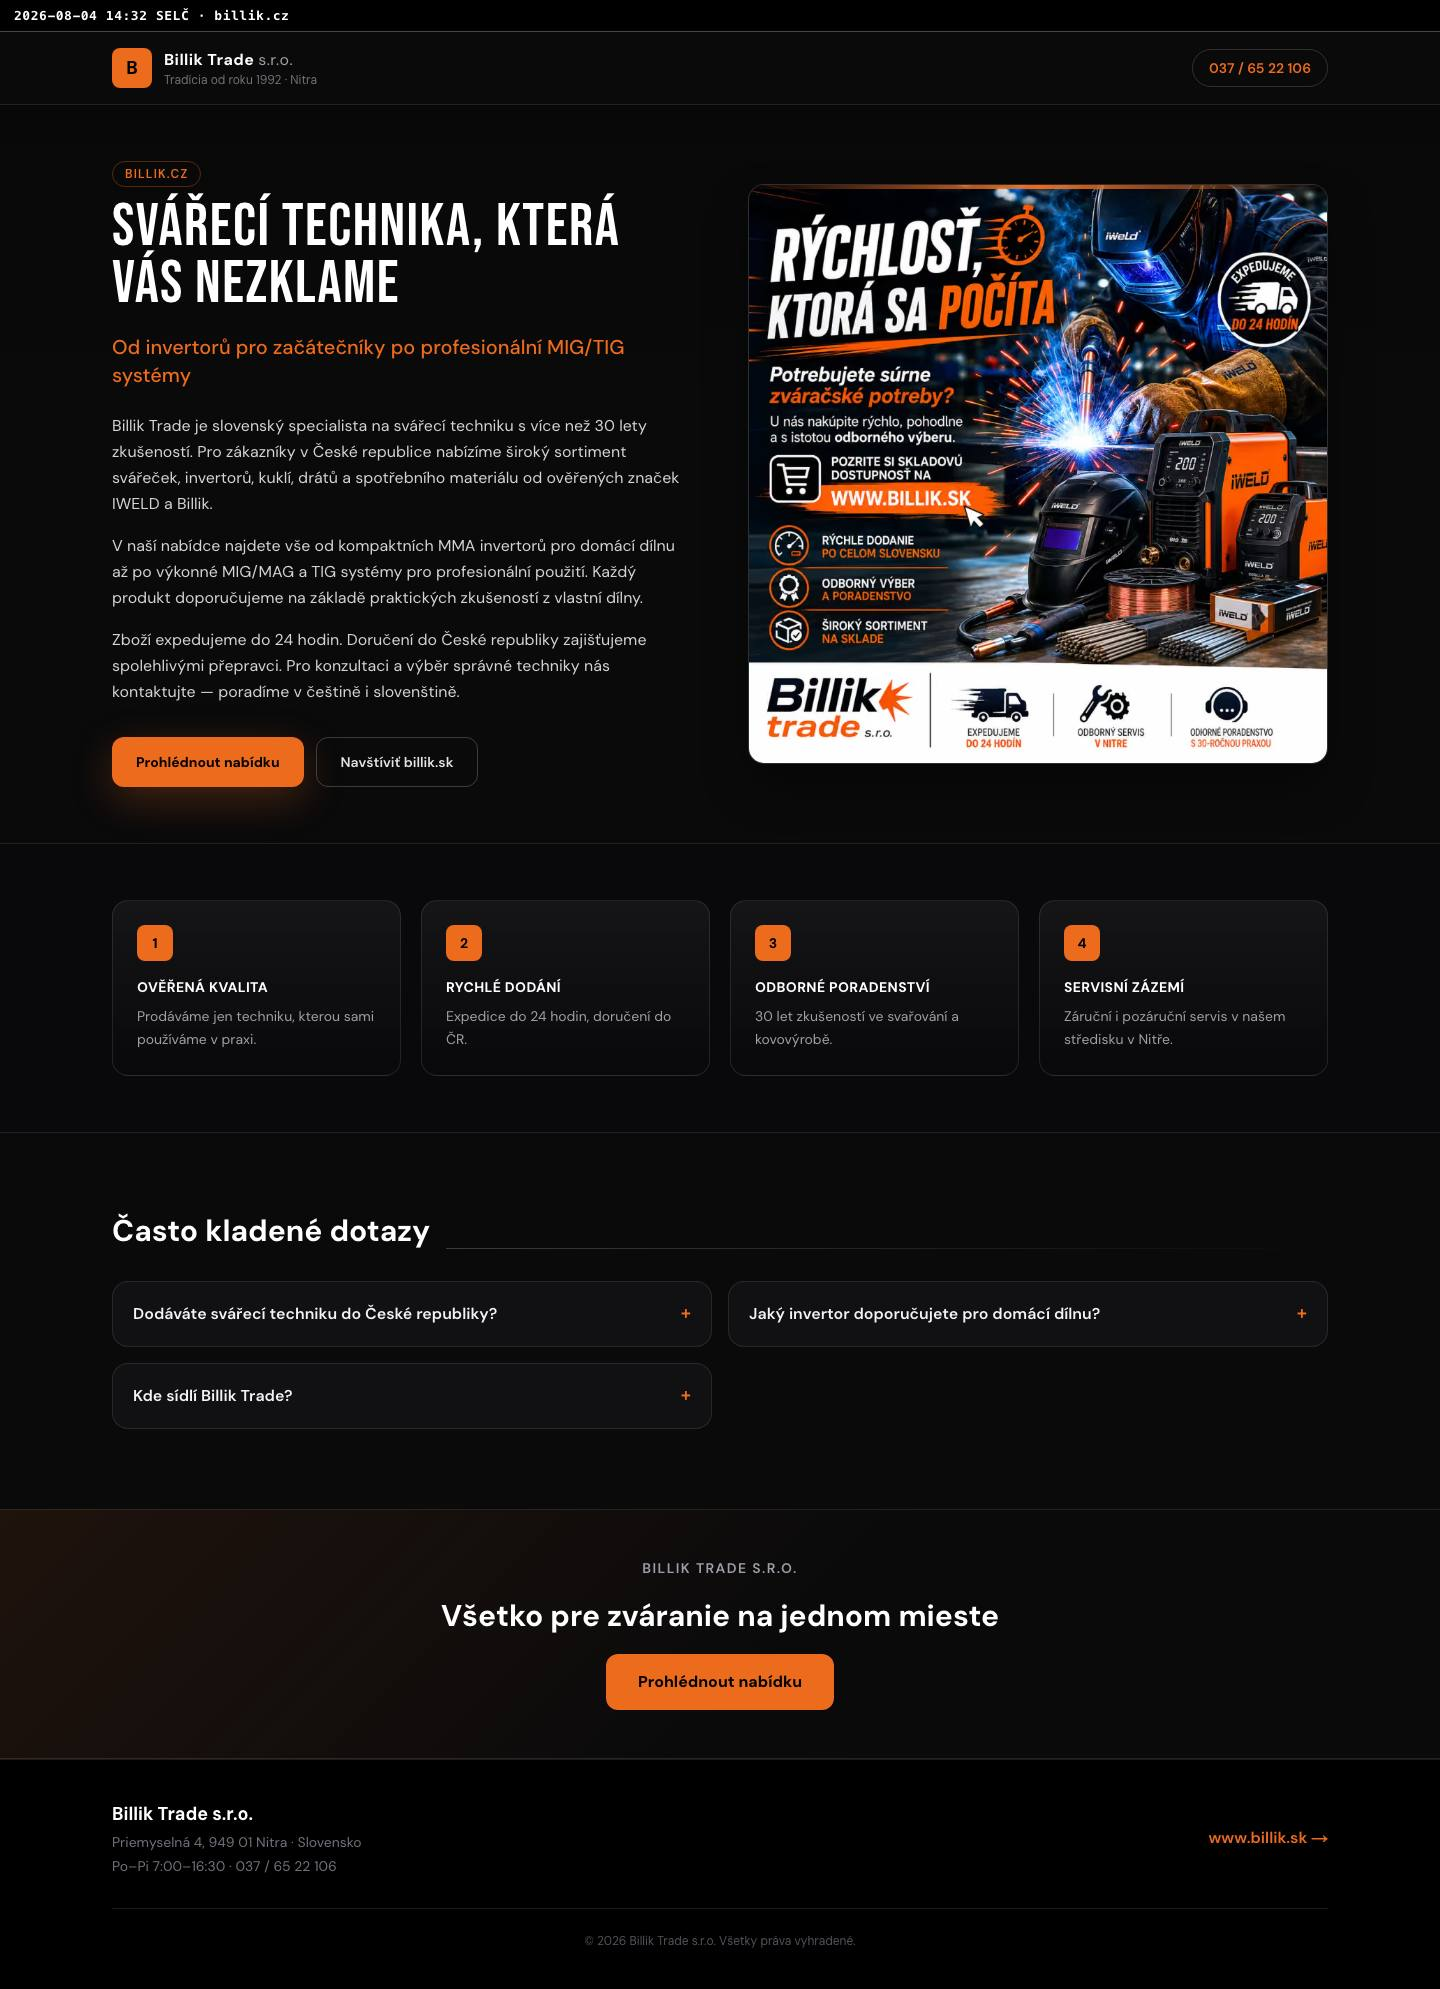
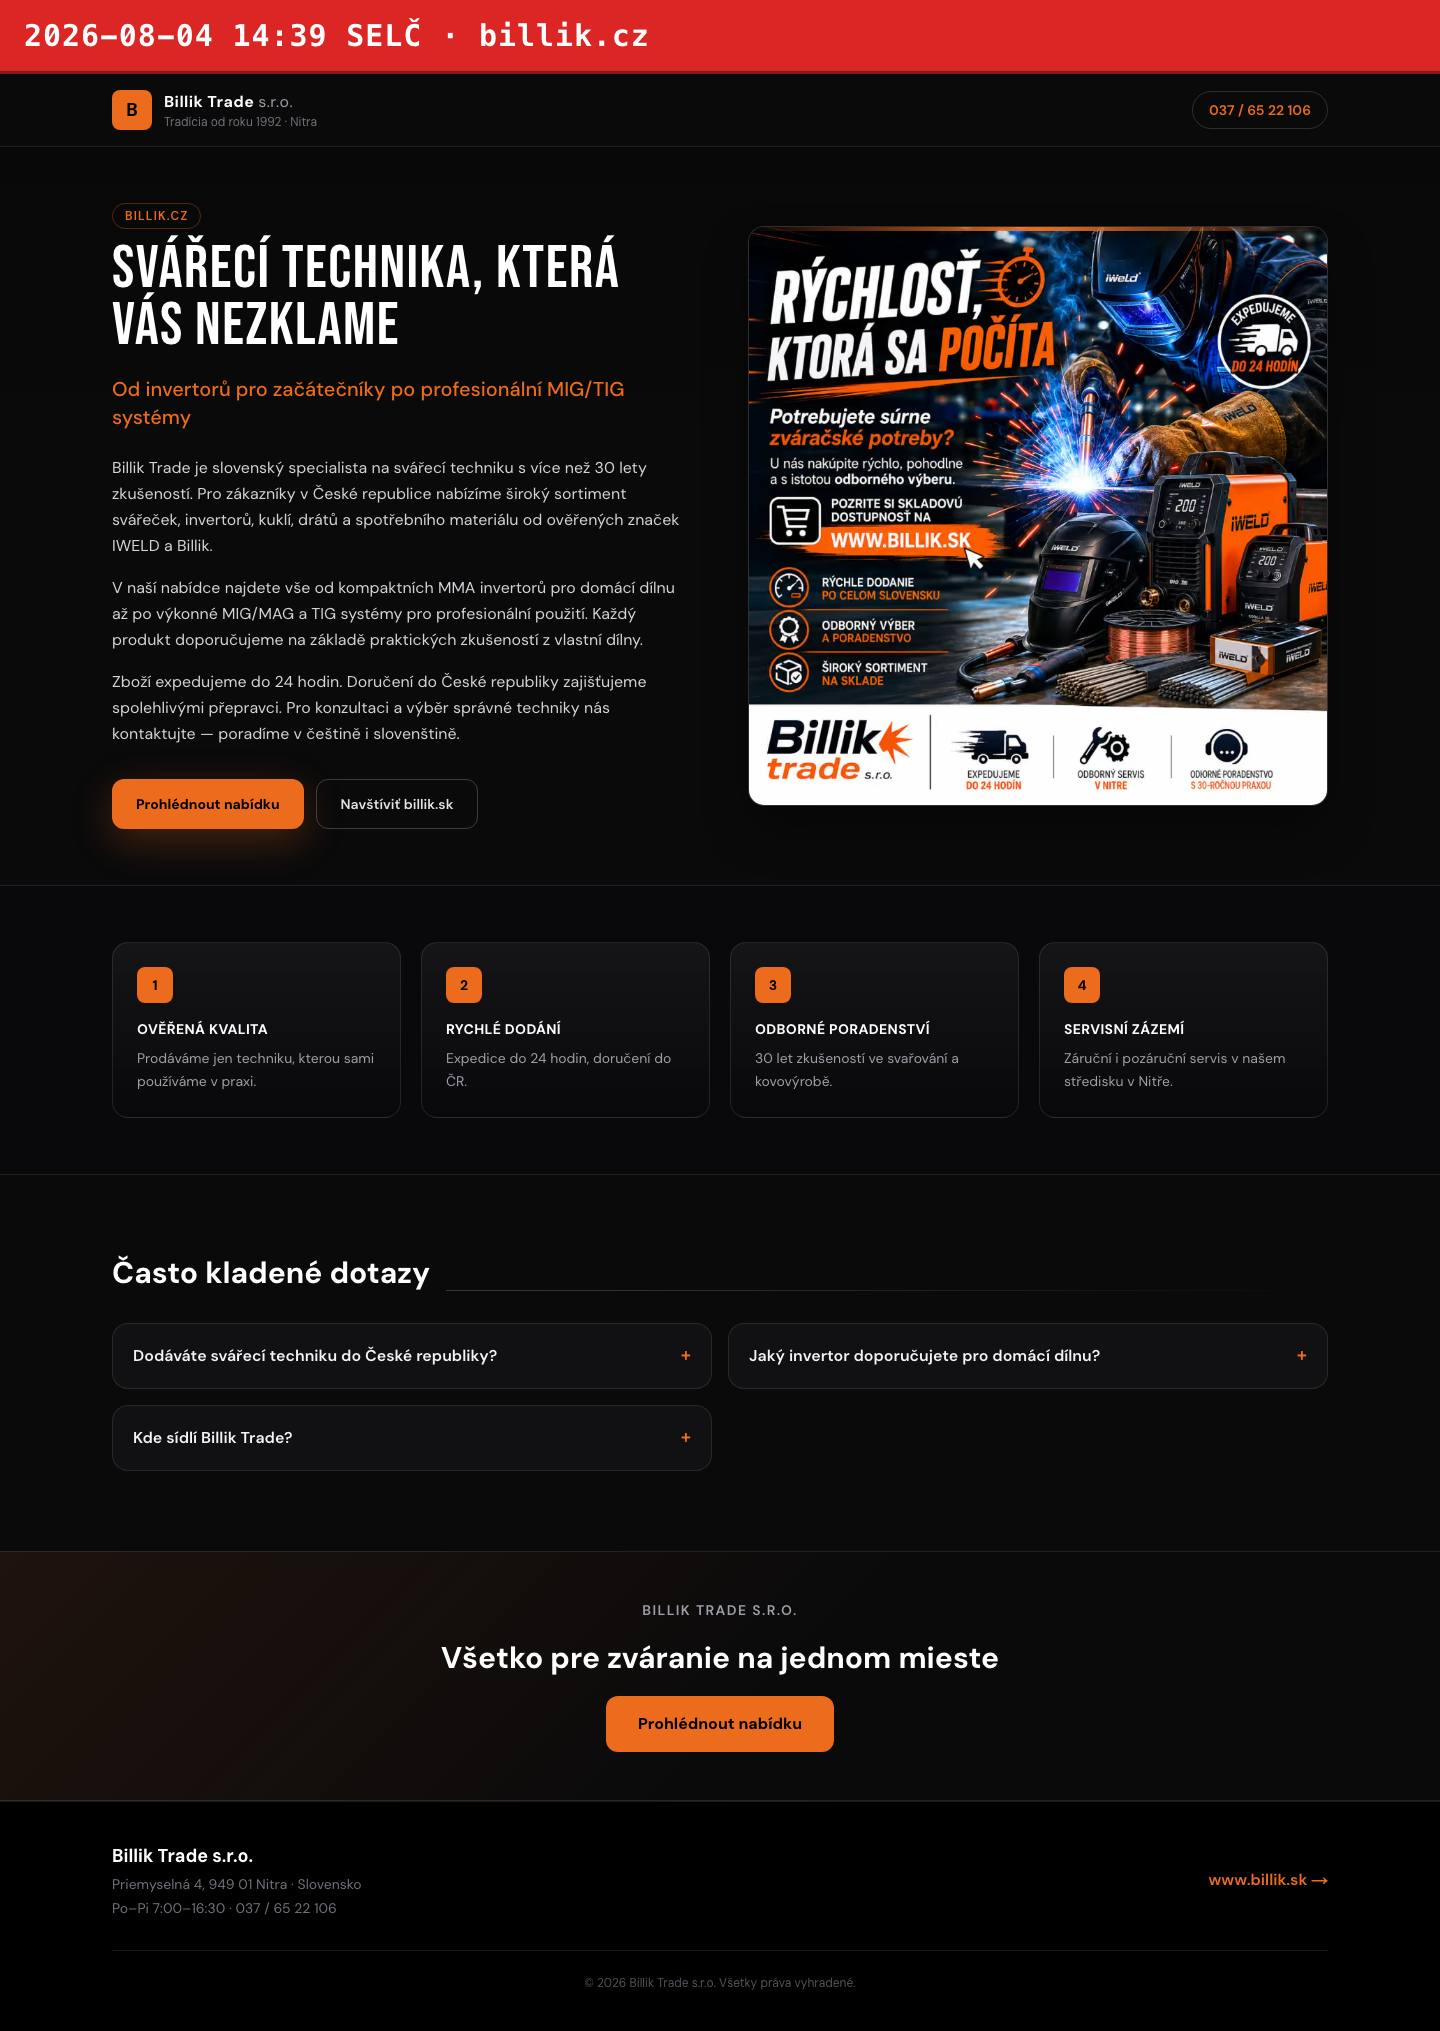
Make the screenshot timestamp bigger and red
White bold text on red, 30px desktop / 19px mobile. The previous 13px black
strip was legible on its own but vanished when viewing a ~2600px full-page
capture at fit-to-screen, which is how these actually get looked at.

Also switched from nowrap to wrapping so a long domain wraps to a second line
instead of being cut off at the mobile viewport.

diff --git a/screenshots/2026-08-04/index.md b/screenshots/2026-08-04/index.md
@@ -1,6 +1,6 @@
 # Screenshots 2026-08-04
 
-Captured 2026-08-04 14:32 SELČ.
+Captured 2026-08-04 14:39 SELČ.
 
 | Domain | Image | Accent | Desktop | Mobile |
 | --- | --- | --- | --- | --- |
